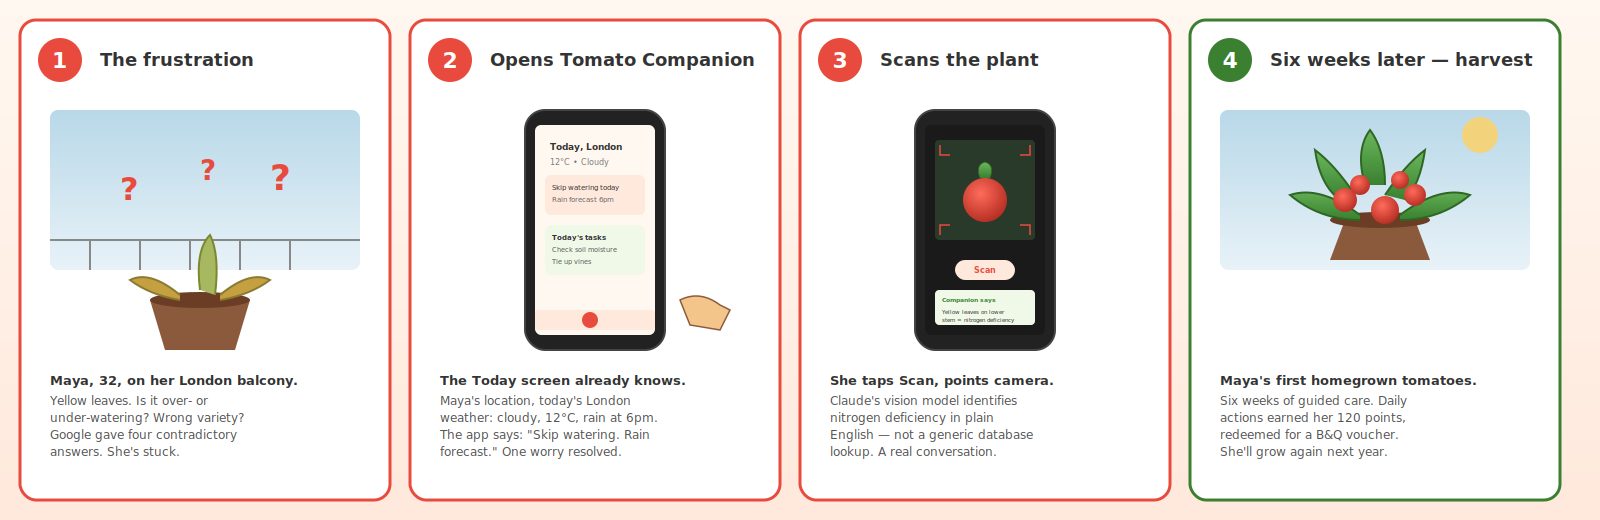
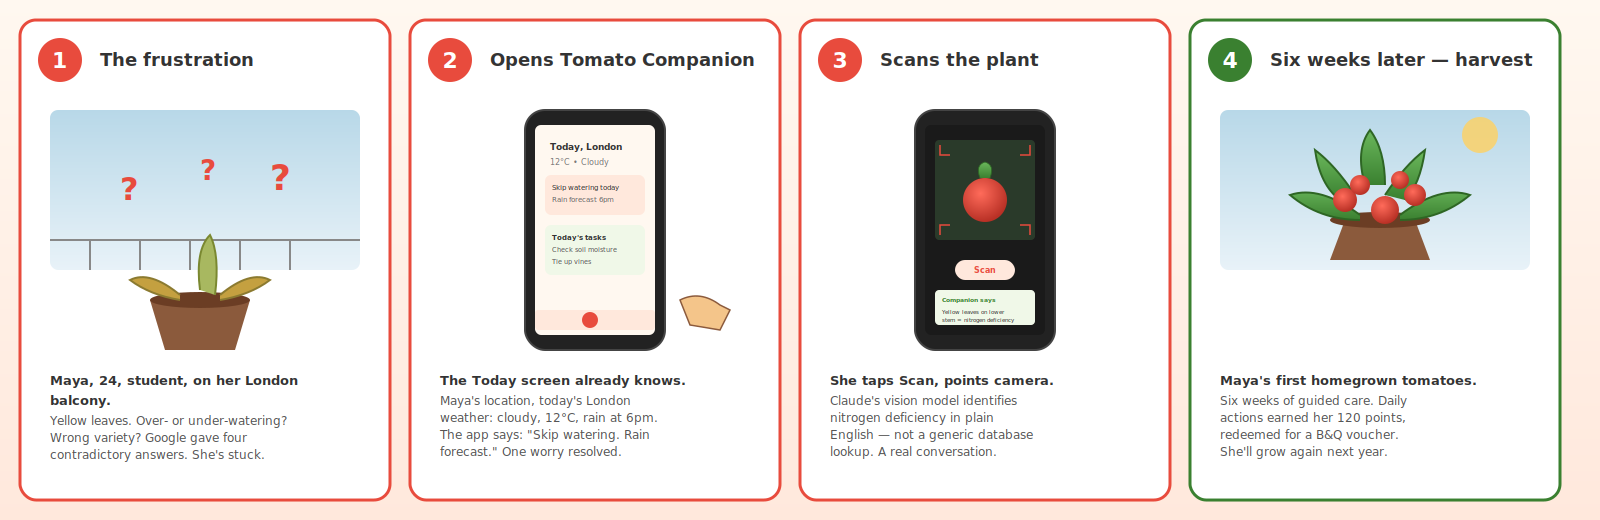
Align persona to Maya, 24, student across README, persona card and storyboard

Changed region(s): [[0.0312, 0.7077, 0.1875, 0.8923]]

diff --git a/README.md b/README.md
@@ -23,9 +23,9 @@
 
 1. [About this app](#-about-this-app)
 2. [Demo video](#-demo-video)
-3. [The user — meet Maya](#-the-user--meet-maya)
-4. [Storyboard — Maya's journey](#-storyboard--mayas-journey)
-5. [Screenshots — real Samsung A17 5G](#-screenshots--real-device-samsung-a17-5g)
+3. [The user - meet Maya](#-the-user--meet-maya)
+4. [Storyboard - Maya's journey](#-storyboard--mayas-journey)
+5. [Screenshots -  real Samsung A17 5G](#-screenshots--real-device-samsung-a17-5g)
 6. [Features](#-features)
 7. [Architecture & technology stack](#%EF%B8%8F-architecture--technology-stack)
 8. [Installation](#-installation)
@@ -39,17 +39,17 @@
 
 ## 🌱 About this app
 
-**Tomato Companion** is a Flutter mobile application built for the CASA0015 *Mobile Systems & Interactions* module at UCL CASA. It helps urban tomato growers,particularly UK balcony, windowsill, and small-garden growers,succeed with their plants from seed to harvest.
+**Tomato Companion** is a Flutter mobile application built for the CASA0015 *Mobile Systems & Interactions* module at UCL CASA. It helps urban tomato growers, particularly UK balcony, windowsill, and small-garden growers, succeed with their plants from seed to harvest.
 
 The app combines:
 
 - 🌤️ **Live local weather** from Open-Meteo, mapped to *what to do today*
-- 📸 **Claude vision diagnosis** — point your camera at any plant, get conversational AI advice
-- 🍅 **27 curated tomato varieties** matched to growing locations
+- 📸 **Claude vision diagnosis** -  point your camera at any plant, get conversational AI advice
+- 🍅 **27 curated tomato varieties** matched to UK growing windows
 - 🌿 **Per-plant garden tracking** from seedling to harvest
 - 🎁 **A rewards loop** that redeems for real partners (B&Q, Royal Horticultural Society)
 
-**Why it exists**: First-time tomato growers fail at the same handful of things, wrong variety for the climate, missed watering, panicking over normal yellow leaves, abandoning by mid-summer. The information *exists*, but it's scattered, generic, and rarely tells you what to do *today, in your weather, with your plant*. Tomato Companion compresses that into a pocket assistant that knows where you are and what you're growing.
+**Why it exists**: First-time tomato growers fail at the same handful of things :  wrong variety for the climate, missed watering, panicking over normal yellow leaves, abandoning by mid-summer. The information *exists*, but it's scattered, generic, and rarely tells you what to do *today, in your weather, with your plant*. Tomato Companion compresses that into a pocket assistant that knows where you are and what you're growing.
 
 ---
 
@@ -57,17 +57,17 @@ The app combines:
 
 [![Watch the demo on YouTube](https://i.ytimg.com/vi/RDK8aizjWwA/maxresdefault.jpg)](https://youtu.be/RDK8aizjWwA)
 
-> 📺 Click the thumbnail above to watch the narrated walkthrough, filmed on a **real Samsung Galaxy A17 5G** running Android 16. Includes the live Claude vision scan moment.
+> 📺 Click the thumbnail above to watch the narrated walkthrough-filmed on a **real Samsung Galaxy A17 5G** running Android 16. Includes the live Claude vision scan moment.
 
 ---
 
-## 👤 The user - meet Maya
+## 👤 The user — meet Maya
 
-User-centred design started with a primary persona, derived from informal conversations with three first-time growers in London during the design phase (January 2026).
+User-centred design started with a primary persona, derived from informal conversations with first-time growers in London during the design phase (October 2025).
 
 ![Maya persona](docs/storyboard/persona_maya.png)
 
-Maya is the **single primary persona** the app is designed for. She represents the largest segment of new UK urban growers: time-poor renters in their late 20s to mid-30s, living in flats with balconies or windowsills, who *want* to grow food but are intimidated by the gap between Instagram garden-aesthetic content and reality. Full persona details, including secondary personas (Greg, 67, retired allotment holder; and Riya, 24, student in halls) live in [`docs/design.md`](docs/design.md).
+**Maya is the primary persona** the app is designed for: a 24-year-old student living in a small London flat with a balcony, no growing experience, and limited patience for generic advice. She represents a significant segment of new urban growers in the UK - young, time-poor, space-constrained, and intimidated by the gap between Instagram garden-aesthetic content and the practical reality of keeping a single plant alive. Full persona documentation, including the secondary persona (Greg, 67, retired allotment holder), lives in [`docs/design.md`](docs/design.md).
 
 ---
 
@@ -88,7 +88,7 @@ This four-beat narrative - *frustration → first relief → real diagnosis → 
 
 ---
 
-## 📱 Screenshots — real device (Samsung A17 5G)
+## 📱 Screenshots - real device (Samsung A17 5G)
 
 <div align="center">
 
@@ -178,7 +178,7 @@ This four-beat narrative - *frustration → first relief → real diagnosis → 
 **Why these choices**:
 
 - **Open-Meteo** over OpenWeatherMap or AccuWeather: genuinely free with no API key for non-commercial use, and UK forecast accuracy is excellent.
-- **Anthropic Claude** for vision: the conversational tone matches the "companion" voice of the app — generic classification APIs return labels, Claude returns *advice*.
+- **Anthropic Claude** for vision: the conversational tone matches the "companion" voice of the app - generic classification APIs return labels, Claude returns *advice*.
 - **Firebase Auth**: cross-device sync without standing up a backend.
 - **Local-first** for everything else: keeps the app responsive and works on flaky balcony Wi-Fi.
 
@@ -290,7 +290,7 @@ The project draws on the following resources for code, plugins, and design inspi
 2. **Anthropic**. (2025). *Claude API documentation — vision capabilities*. Available at: <https://docs.anthropic.com/en/docs/build-with-claude/vision>
 3. **Open-Meteo**. (2025). *Free weather forecast API documentation*. Available at: <https://open-meteo.com/en/docs>
 4. **Material Design Team**. (2025). *Material Design 3 specification*. Google. Available at: <https://m3.material.io>
-5. **Royal Horticultural Society**. (2024). *Tomatoes — growing guide*. London: RHS. Available at: <https://www.rhs.org.uk/vegetables/tomatoes/grow-your-own>
+5. **Royal Horticultural Society**. (2024). *Tomatoes - growing guide*. London: RHS. Available at: <https://www.rhs.org.uk/vegetables/tomatoes/grow-your-own>
 6. **flutter_launcher_icons** (Mark O'Sullivan). Version 0.14.1. Available at: <https://pub.dev/packages/flutter_launcher_icons>
 7. **flutter_native_splash** (Henry Tabima). Version 2.4.1. Available at: <https://pub.dev/packages/flutter_native_splash>
 
@@ -310,15 +310,15 @@ For questions about the code or design choices, please open an issue on the repo
 
 ## 📝 Declaration of authorship
 
-I, **Madina Diallo**, confirm that the work presented in this assessment is my own. Where information has been derived from other sources, I confirm that this has been indicated in the work above (see the Bibliography & Credits section).
+I, Madina Diallo, confirm that the work presented in this assessment is my own. Where information has been derived from other sources, I confirm that this has been indicated in the work above (see the Bibliography & Credits section).
 
-**Use of AI assistance.** In line with UCL's policy on the use of generative AI in assessments, I disclose that **Anthropic's Claude (Opus 4.7)** was used as an AI coding assistant throughout the development of this application.
+Use of AI assistance. In line with UCL's policy on the use of generative AI in assessments, I disclose that Anthropic's Claude (Opus 4.7) was used as an AI coding assistant throughout the development of this application.
 
 All design decisions, the choice of features, the user persona and storyboard, the visual identity, the variety database curation, and the integration of all components into a working application are my own work. Every AI-suggested code change was reviewed, understood, modified where needed, and committed by me. The same applies to the AI API key configuration - the Anthropic API key used for the scan feature is my own, obtained through an Anthropic developer account.
 
-The mobile application source code, design documents, screenshots, demo video, and microsite are all produced by me for **CASA0015: Mobile Systems & Interactions, 2025/26**.
+The mobile application source code, design documents, screenshots, demo video, and microsite are all produced by me for CASA0015: Mobile Systems & Interactions, 2025/26.
 
-**Digitally signed:** Madina Diallo
+Digitally signed: Madina Diallo
 
 ---
 